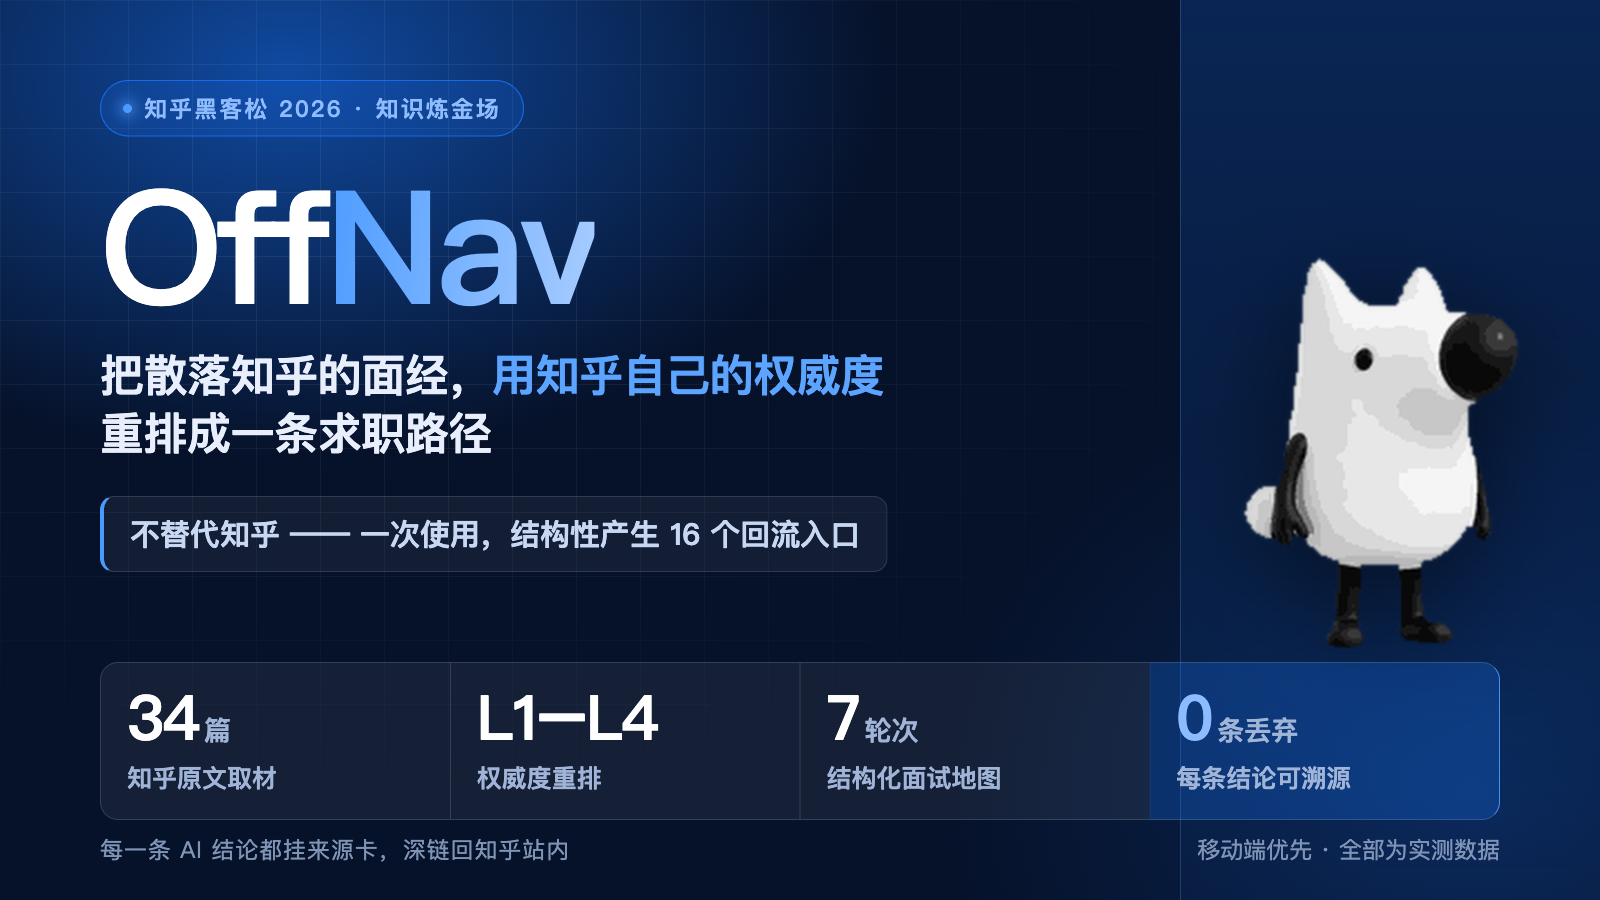
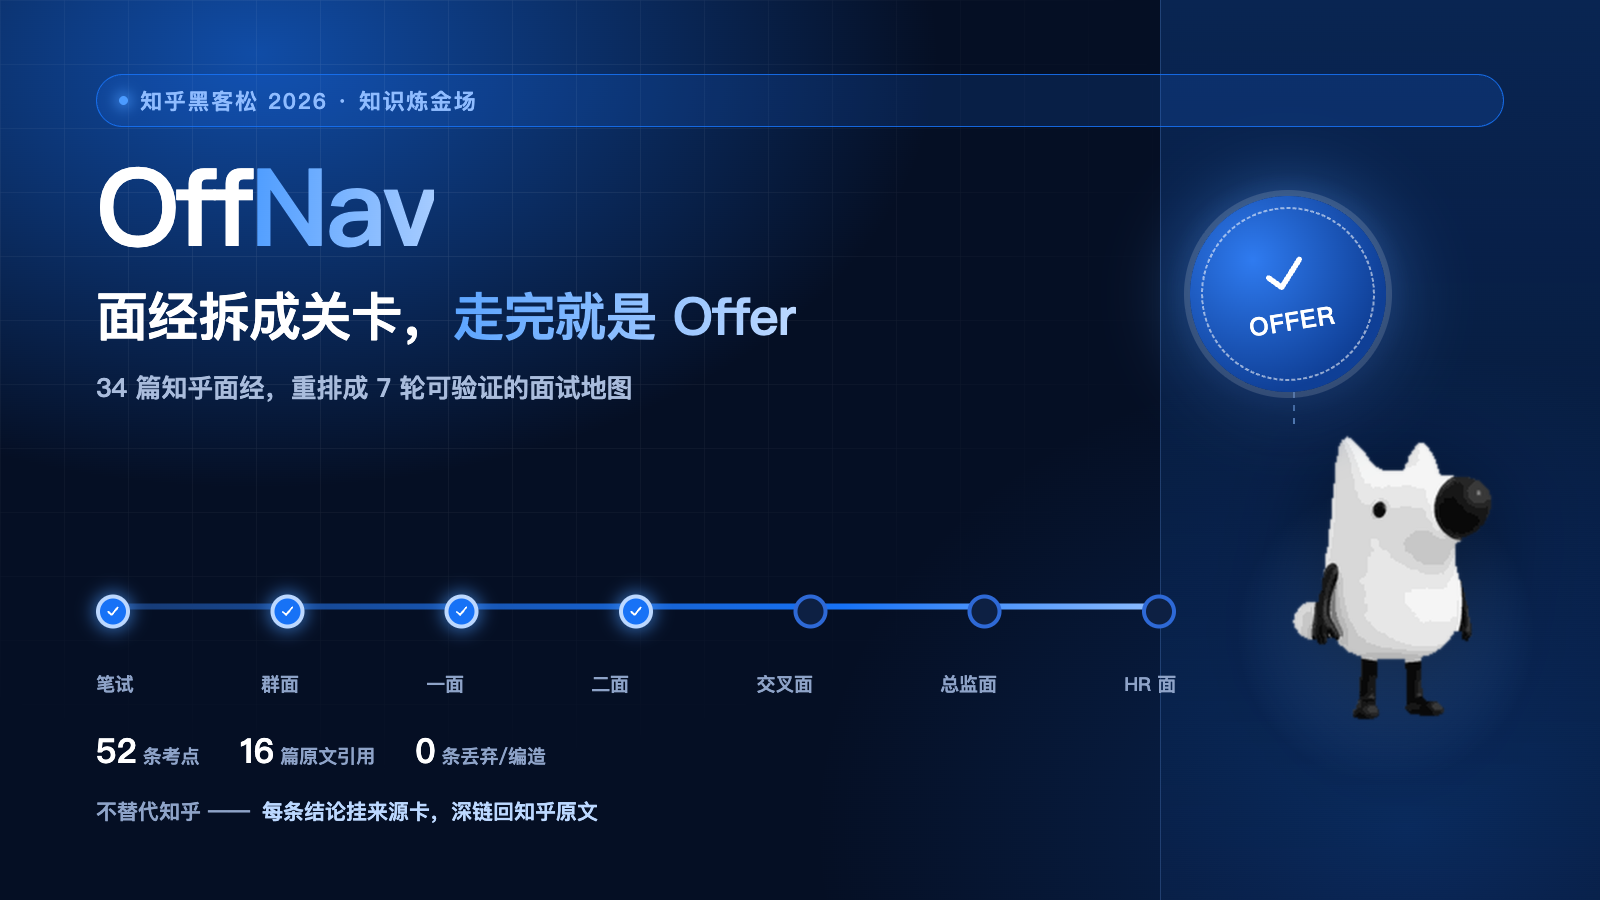
fix(auth): 回调跳转不再从 req.url 推断地址，避免 9000 端口被浏览器拒绝
云函数监听 9000，网关转发时 req.url 带 `0.0.0.0:9000`，据此拼出的跳转地址
被浏览器判为受限端口而拒绝加载——登录实际成功但用户看到报错页。改为从已登记
的 ZHIHU_OAUTH_REDIRECT_URI 反推对外首页地址，旧兼容路径同样处理。
失败分支补 stage 短码便于排障。

同时更新参赛视觉：封面改为关卡进度条 + OFFER 徽章（突出拿 offer 的结果感），
刘看山与画布边缘、徽章圆盘的包围盒均已实测无重叠；ICON 64px 缩略验证符号可辨。

diff --git a/app/auth/callback/route.ts b/app/auth/callback/route.ts
@@ -16,26 +16,45 @@ const SESSION_TTL_MS = 7 * 24 * 3600 * 1000;
 // Response.redirect 要求绝对 URL（WHATWG fetch 规范，相对路径会直接抛
 // TypeError:Invalid URL）——用请求自身的 origin 拼成绝对地址再跳转。
 export async function GET(req: NextRequest) {
-  const origin = new URL(req.url).origin;
+  // 首页地址不能从 req.url 推断：云函数监听 9000 端口，网关转发时 req.url 带着
+  // `:9000`，据此拼出的跳转地址会被浏览器判为受限端口而拒绝加载；网关同时还把
+  // /offnav 前缀剥掉，origin 里也没有前缀。已登记的 OAuth 回调地址是唯一确定的
+  // 对外地址，从它反推首页，再退回 origin+basePath 兜住本地开发。
+  const home = (() => {
+    const registered = process.env.ZHIHU_OAUTH_REDIRECT_URI;
+    if (registered) {
+      try {
+        const u = new URL(registered);
+        return `${u.origin}${u.pathname.replace(/\/auth\/callback\/?$/, "")}/`;
+      } catch {
+        // 配置写坏时不能让登录整体失败，落到下面的兜底。
+      }
+    }
+    const u = new URL(req.url);
+    return `${u.origin}${process.env.NEXT_PUBLIC_BASE_PATH || ""}/`;
+  })();
 
-  function fail(reason: string) {
-    return Response.redirect(`${origin}/?login_error=${encodeURIComponent(reason)}`, 302);
+  // detail 只带一个短代码，便于排障时从地址栏定位失败环节，不泄露凭证内容。
+  function fail(reason: string, detail?: string) {
+    const q = new URLSearchParams({ login_error: reason });
+    if (detail) q.set("stage", detail);
+    return Response.redirect(`${home}?${q.toString()}`, 302);
   }
 
   const url = new URL(req.url);
   const code = url.searchParams.get("authorization_code") || url.searchParams.get("code");
   const state = url.searchParams.get("state");
-  if (!code) return fail("回调参数不完整");
+  if (!code) return fail("回调参数不完整", "no_code");
 
   const store = getStore();
 
   if (state) {
     // 原子消费：过期、不存在、已用过都返回 null。
     const st = await store.consumeOAuthState(state);
-    if (!st) return fail("登录请求已失效，请重新登录");
+    if (!st) return fail("登录请求已失效，请重新登录", "state_invalid");
 
     const hint = req.cookies.get("offnav_hint")?.value;
-    if (!matchesSessionHint(hint, st.sessionHint)) return fail("登录请求与当前浏览器不匹配");
+    if (!matchesSessionHint(hint, st.sessionHint)) return fail("登录请求与当前浏览器不匹配", "hint_mismatch");
   } else {
     // 已知协议缺口：实测回调可能不返回 state，不能借此拒绝真实登录。
     console.warn("[auth/callback] 回调未带 state，跳过 CSRF 绑定校验（已知协议缺口）");
@@ -55,7 +74,7 @@ export async function GET(req: NextRequest) {
     const sid = randomUUID();
     await store.createSession({ id: sid, userId: user.id, oauthToken: accessToken, expiresAt: Date.now() + SESSION_TTL_MS });
 
-    const res = Response.redirect(`${origin}/?login=ok`, 302);
+    const res = Response.redirect(`${home}?login=ok`, 302);
     const out = new Response(res.body, res);
     // OAuth token 只留服务端；浏览器只拿随机会话标识。
     out.headers.append(
@@ -65,6 +84,6 @@ export async function GET(req: NextRequest) {
     return out;
   } catch (e) {
     console.error("[auth/callback]", (e as Error).message);
-    return fail("授权失败，请重试");
+    return fail("授权失败，请重试", "exchange_failed");
   }
 }

diff --git a/app/api/auth/zhihu/callback/route.ts b/app/api/auth/zhihu/callback/route.ts
@@ -7,7 +7,15 @@ export const dynamic = "force-dynamic";
 
 export async function GET(req: NextRequest) {
   const url = new URL(req.url);
-  const target = new URL("/auth/callback", url.origin);
+  // 不能用 req.url 的 origin：云函数监听 9000 端口，网关转发时把它带进来，
+  // 拼出的跳转地址会被浏览器按受限端口拒绝。已登记的回调地址是确定的对外地址。
+  const registered = process.env.ZHIHU_OAUTH_REDIRECT_URI;
+  let target: URL;
+  try {
+    target = new URL(registered!);
+  } catch {
+    target = new URL(`${process.env.NEXT_PUBLIC_BASE_PATH || ""}/auth/callback`, url.origin);
+  }
   target.search = url.search;
   return Response.redirect(target.toString(), 302);
 }
